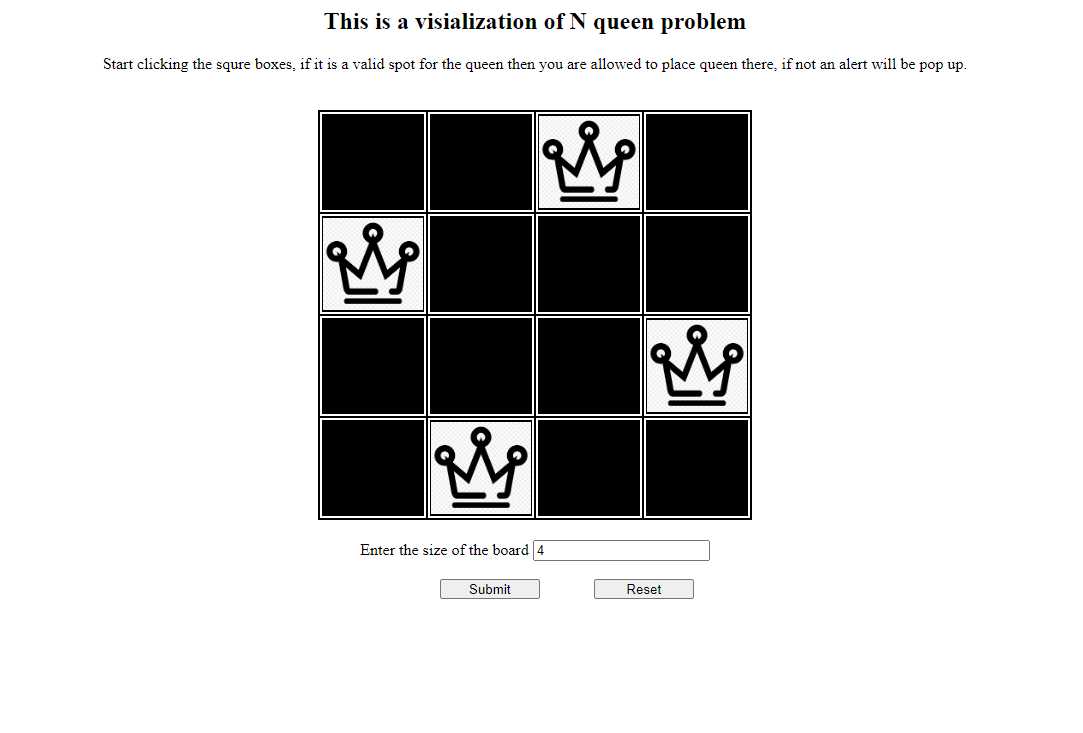
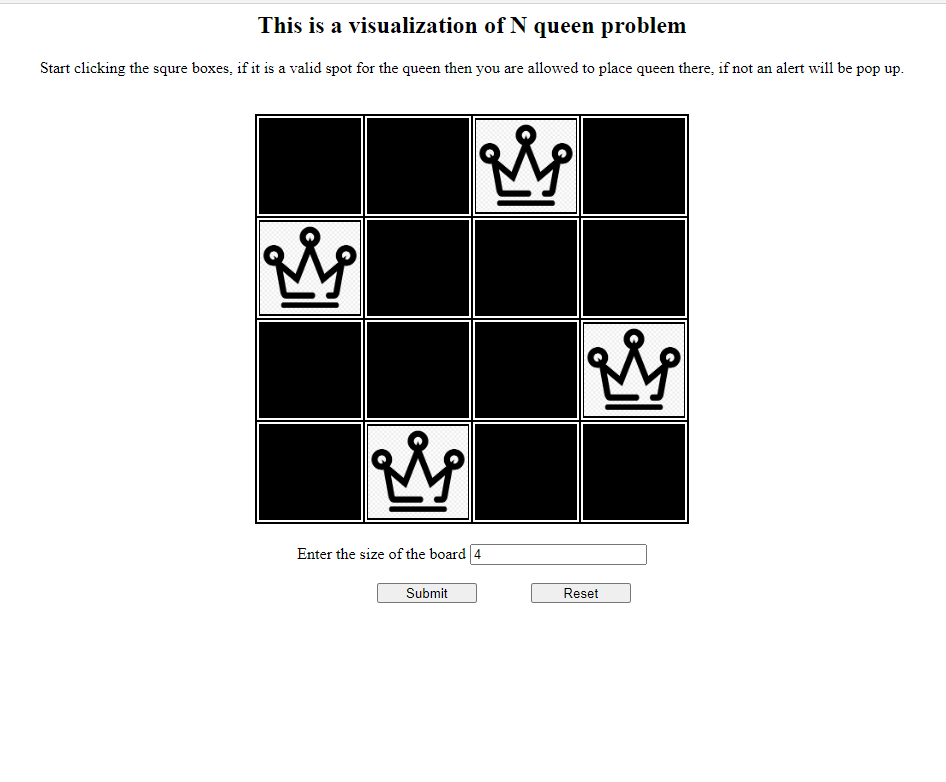
final chnmage

Changed region(s): [[0.0307, 0.0, 0.9503, 0.8104]]

diff --git a/index.html b/index.html
@@ -3,7 +3,7 @@
   	<link rel="stylesheet" href="main.css">
   </head>
   <body>
-  	<h2>This is a visialization of N queen problem</h2>
+  	<h2>This is a visualization of N queen problem</h2>
   	<p>Start clicking the squre boxes, if it is a valid spot for the queen then you are allowed to place queen there, if not an alert will be pop up.</p>
   	<table id="myTable" class="margin">
   	</table>
